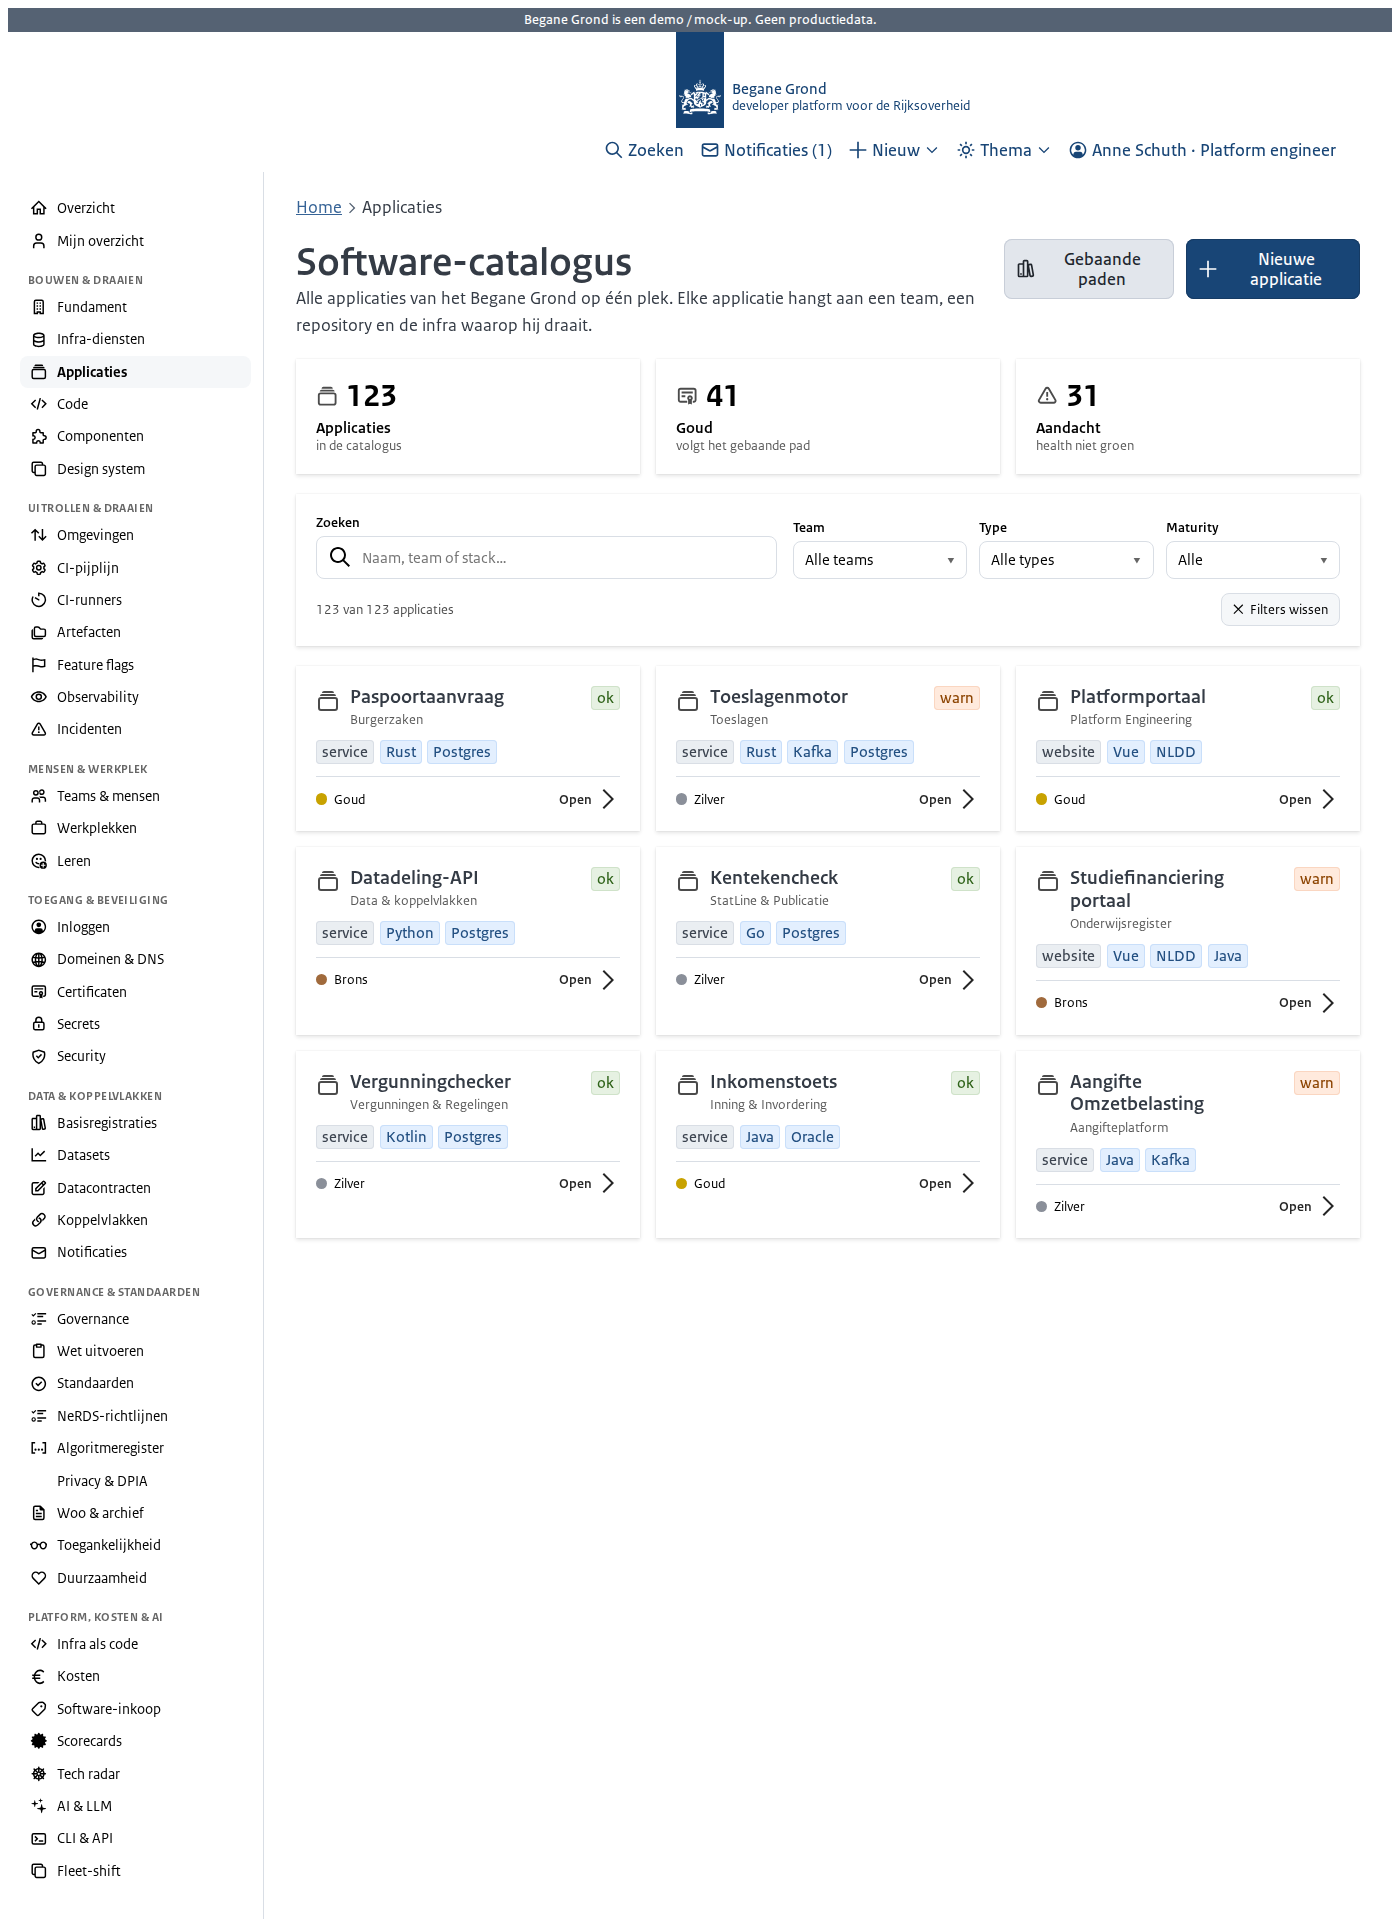
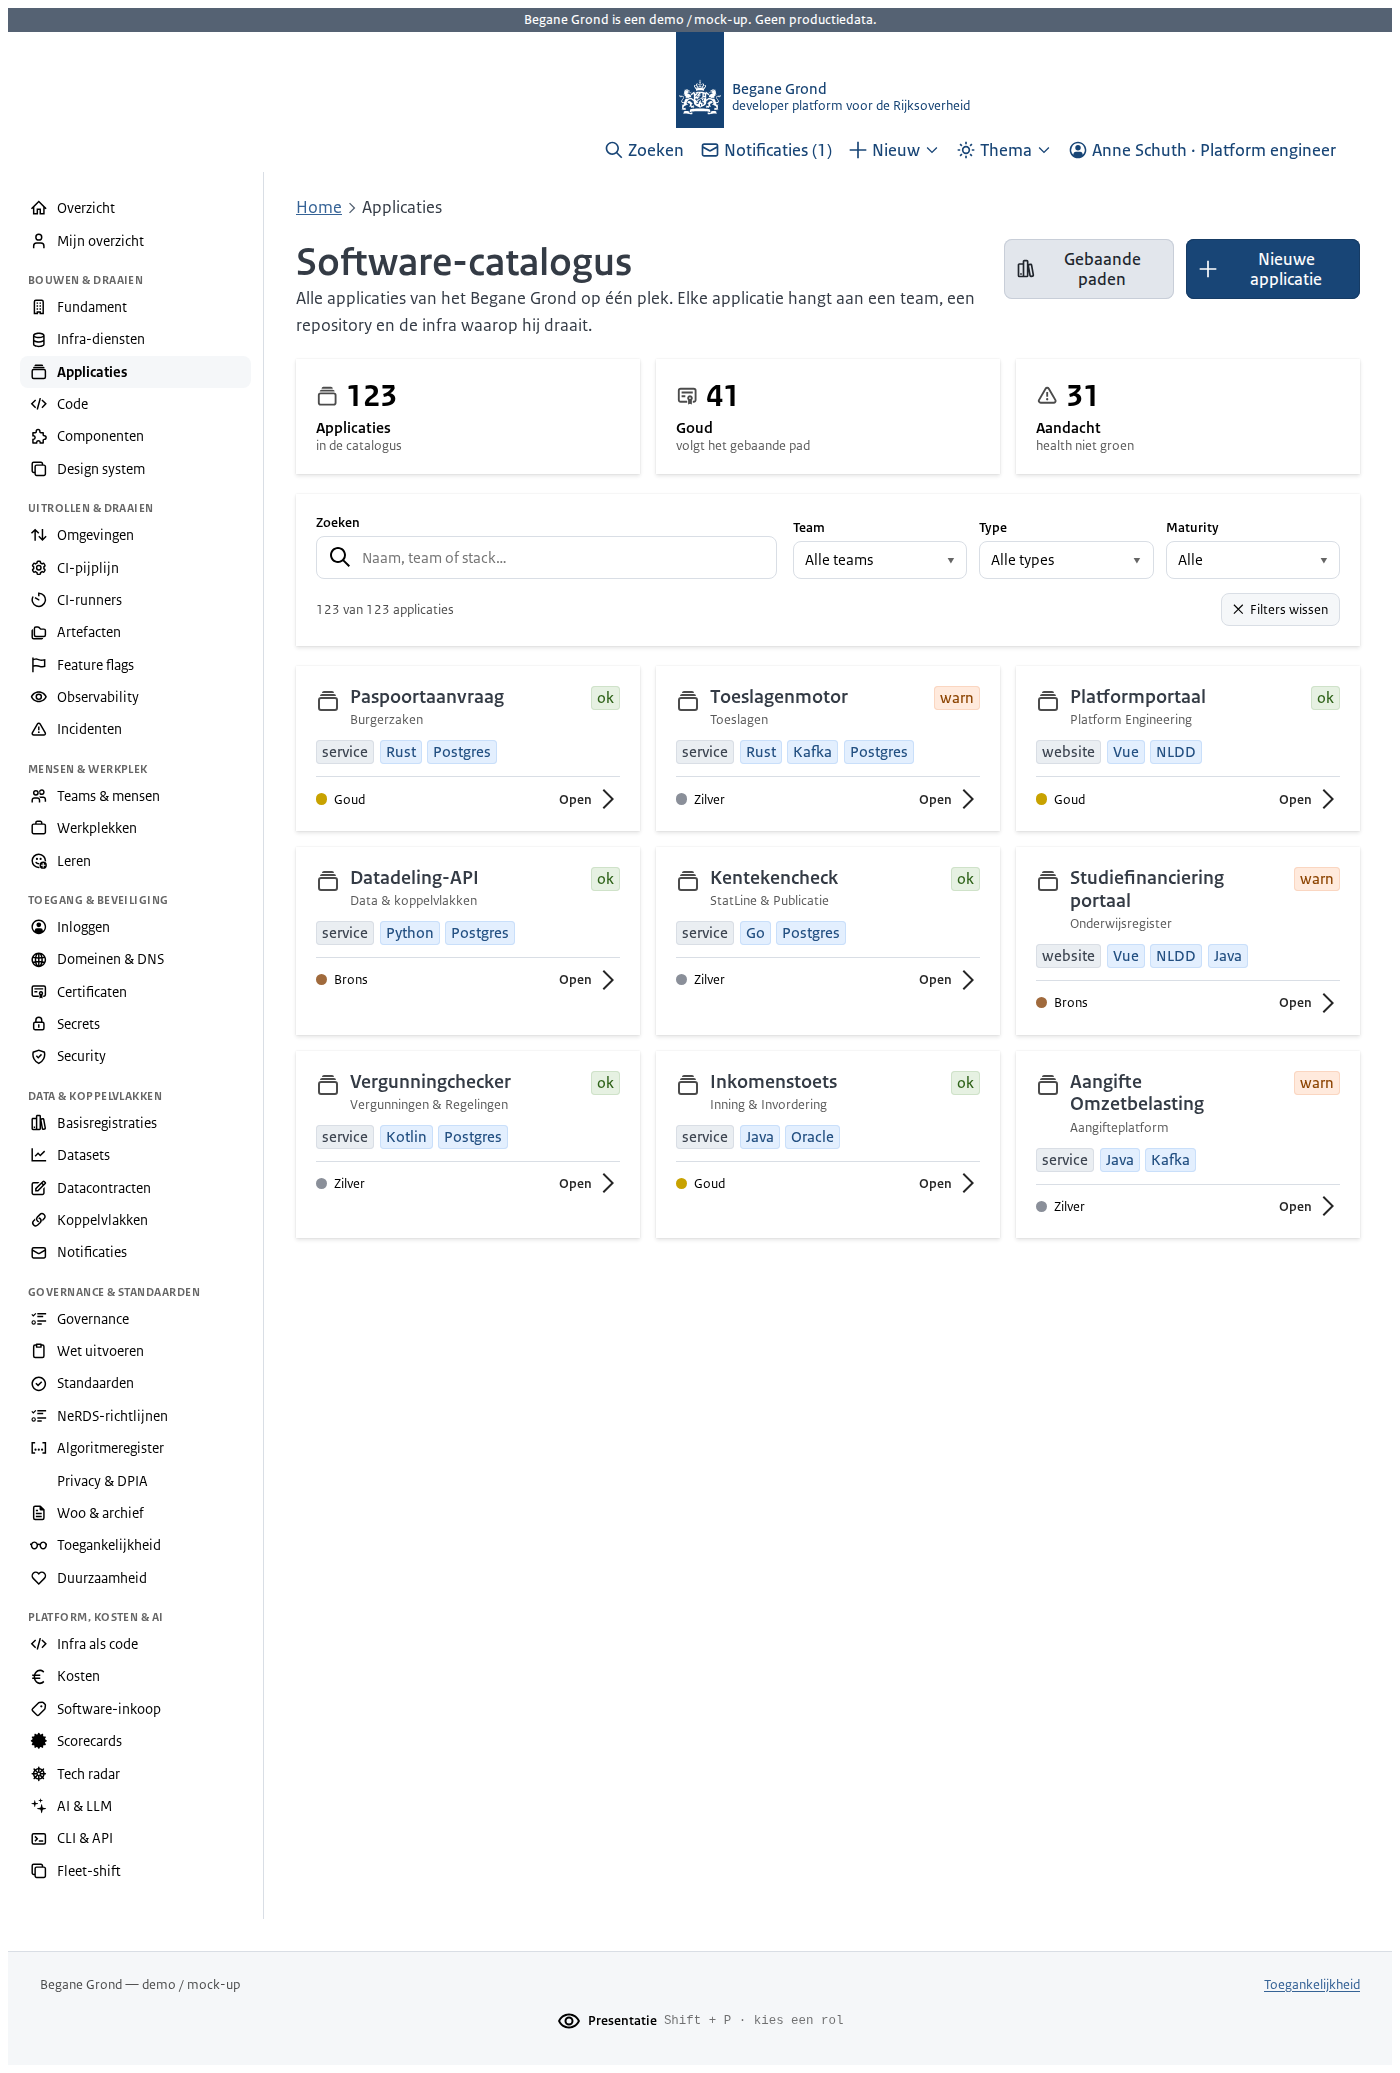
Add the page footer (site-footer) to the /apps recreation
New global site-footer component with NLDD/BGNLDD + RVO impls: a slim page
footer with a legal bar (start text + end links via content) and an optional
centered note/action row (label + monospace hint + icon) — matching
bg.rijks.app's nldd-page-footer (legal bar + "Presentatie · Shift + P" note).

It renders through the app-shell's existing footer slot, so it spans full width
below the sidebar and main (grid area "footer footer"). Structural CSS
(lotc-site-footer / lotc-footer-*) is theme-agnostic (token fallbacks) and lives
in the core app-components bundle; end links use the existing c-link, which
resolves in both design systems. The /apps fixture (+ its RVO variant) now ends
with the footer.

Tests cover the footer (legal bar, links, note, note-less) and its placement in
the app-shell footer slot; the /apps fixture test now asserts the footer.
2488 py + 144 core tests pass; matrix/goldens unchanged (template-backed).

diff --git a/python/src/lord_of_the_components/static/lotc/app-components.css b/python/src/lord_of_the_components/static/lotc/app-components.css
@@ -245,3 +245,13 @@
 .lotc-filter-foot { justify-content: space-between; align-items: center; margin-top: 0.85rem; font-size: 0.85rem; display: flex; }
 .lotc-filter-count { opacity: 0.7; }
 .lotc-filter-clear { color: inherit; background: var(--semantics-surfaces-tinted-background-color, #eef0f4); border: 1px solid var(--semantics-dividers-color, #e2e2e6); border-radius: 8px; align-items: center; gap: 0.35rem; padding: 0.45rem 0.7rem; font: inherit; display: inline-flex; }
+
+/* ── site-footer (slim page footer: legal bar + optional note) ───────────── */
+.lotc-site-footer { border-top: 1px solid var(--semantics-dividers-color, #e2e2e6); background: var(--semantics-surfaces-tinted-background-color, #e6e9ef); margin-top: 2rem; padding: 1.5rem 2rem 1.75rem; }
+.lotc-footer-legal { flex-wrap: wrap; justify-content: space-between; align-items: center; gap: 1rem; display: flex; }
+.lotc-footer-text { opacity: 0.7; font-size: 0.9rem; }
+.lotc-footer-links { flex-wrap: wrap; align-items: center; gap: 1.25rem; font-size: 0.9rem; display: flex; }
+.lotc-footer-note { text-align: center; margin-top: 1rem; }
+.lotc-footer-present { align-items: center; gap: 0.45rem; font-size: 0.9rem; display: inline-flex; }
+.lotc-footer-present strong { font-weight: 600; }
+.lotc-footer-hint { opacity: 0.55; font-family: ui-monospace, monospace; font-size: 0.78rem; }

diff --git a/definitions/components/app-components.def.ts b/definitions/components/app-components.def.ts
@@ -278,3 +278,18 @@ export const filterSelect = defineComponent({
     [PROPS.CLASS]: { description: "Additional CSS classes" },
   },
 });
+
+// ── site-footer: a slim page footer (legal bar + an optional centered note) ──
+export const siteFooter = defineComponent({
+  name: "site-footer",
+  description: "Slim page footer: a legal bar (start text + end links content) with an optional centered note/action row",
+  category: "layout",
+  props: {
+    text: { description: "Legal text on the left (e.g. copyright / disclaimer)" },
+    "note-label": { description: "Centered note action label (e.g. \"Presentatie\")" },
+    note: { description: "Centered note hint (monospace, e.g. a keyboard shortcut)" },
+    "note-icon": { description: "Icon for the note action" },
+    [PROPS.CLASS]: { description: "Additional CSS classes" },
+  },
+  content: { allowed: true }, // end links (right side of the legal bar)
+});

diff --git a/tests/visual/fixtures/apps-rvo.html b/tests/visual/fixtures/apps-rvo.html
@@ -111,5 +111,11 @@
       <c-catalog-card icon="rectangle-stack" title="Aangifte Omzetbelasting" subtitle="Aangifteplatform" status="warn" status-type="warning" maturity="zilver" open-label="Open" href="/apps/aangifte-omzetbelasting"><c-tag type="default">service</c-tag><c-tag type="info">Java</c-tag><c-tag type="info">Kafka</c-tag></c-catalog-card>
     </c-auto-grid>
   </c-stack>
+
+  <template slot="footer">
+    <c-site-footer text="Begane Grond — demo / mock-up" note-label="Presentatie" note="Shift + P · kies een rol" note-icon="eye">
+      <c-link href="/standaarden">Toegankelijkheid</c-link>
+    </c-site-footer>
+  </template>
 </c-app-shell>
 </c-page>

diff --git a/tests/visual/fixtures/apps.html b/tests/visual/fixtures/apps.html
@@ -111,5 +111,11 @@
       <c-catalog-card icon="rectangle-stack" title="Aangifte Omzetbelasting" subtitle="Aangifteplatform" status="warn" status-type="warning" maturity="zilver" open-label="Open" href="/apps/aangifte-omzetbelasting"><c-tag type="default">service</c-tag><c-tag type="info">Java</c-tag><c-tag type="info">Kafka</c-tag></c-catalog-card>
     </c-auto-grid>
   </c-stack>
+
+  <template slot="footer">
+    <c-site-footer text="Begane Grond — demo / mock-up" note-label="Presentatie" note="Shift + P · kies een rol" note-icon="eye">
+      <c-link href="/standaarden">Toegankelijkheid</c-link>
+    </c-site-footer>
+  </template>
 </c-app-shell>
 </c-page>

diff --git a/definitions/components/index.ts b/definitions/components/index.ts
@@ -59,6 +59,7 @@ export {
   catalogCard,
   filterBar,
   filterSelect,
+  siteFooter,
 } from "./app-components.def.js";
 
 // Feedback components
@@ -163,6 +164,7 @@ import {
   catalogCard,
   filterBar,
   filterSelect,
+  siteFooter,
 } from "./app-components.def.js";
 import type { ComponentDefinition } from "../component.js";
 
@@ -239,6 +241,7 @@ export const COMPONENTS: Record<string, ComponentDefinition> = {
   "catalog-card": catalogCard,
   "filter-bar": filterBar,
   "filter-select": filterSelect,
+  "site-footer": siteFooter,
 };
 
 /**

diff --git a/python/tests/test_bgnldd.py b/python/tests/test_bgnldd.py
@@ -222,6 +222,32 @@ def test_catalog_card_maturity_variants(render):
     assert "lotc-medal" not in html
 
 
+def test_site_footer_renders(render):
+    # Slim page footer: legal text (left) + end links (content, right) and an
+    # optional centered note/action row.
+    html = render(
+        '<c-site-footer text="Begane Grond — demo / mock-up" note-label="Presentatie"'
+        ' note="Shift + P" note-icon="eye"><c-link href="/standaarden">Toegankelijkheid'
+        "</c-link></c-site-footer>"
+    )
+    assert 'class="lotc-site-footer"' in html and 'role="contentinfo"' in html
+    assert "lotc-footer-legal" in html and "Begane Grond" in html
+    assert "lotc-footer-links" in html and "Toegankelijkheid" in html
+    assert "lotc-footer-note" in html and "Presentatie" in html and "Shift + P" in html
+    # note-less footer emits no note row
+    bare = render('<c-site-footer text="X"/>')
+    assert "lotc-footer-note" not in bare
+
+
+def test_site_footer_lands_in_app_shell_footer_slot(render):
+    # Placed via <template slot="footer">, the footer renders full-width in the
+    # app-shell's footer region.
+    html = render(
+        '<c-app-shell><template slot="footer"><c-site-footer text="X"/></template>body</c-app-shell>'
+    )
+    assert "lotc-app-shell__footer" in html and "lotc-site-footer" in html
+
+
 def test_apps_page_fixture_renders_fully():
     # The full /apps ("Software-catalogus") recreation renders end-to-end under
     # nldd+bgnldd with every component resolving (no missing-impl error).
@@ -235,6 +261,7 @@ def test_apps_page_fixture_renders_fully():
     assert html.count('class="lotc-catalog"') == 9  # nine app cards
     assert "lotc-filterbar" in html and html.count("lotc-filter-field") >= 3
     assert html.count("lotc-metric-link") == 3
+    assert "lotc-site-footer" in html  # page footer in the app-shell footer slot
     assert "not implemented" not in html  # no placeholder gaps
 
 

diff --git a/tests/visual/gen_apps.py b/tests/visual/gen_apps.py
@@ -123,6 +123,12 @@ def build() -> str:
 {cards()}
     </c-auto-grid>
   </c-stack>
+
+  <template slot="footer">
+    <c-site-footer text="Begane Grond — demo / mock-up" note-label="Presentatie" note="Shift + P · kies een rol" note-icon="eye">
+      <c-link href="/standaarden">Toegankelijkheid</c-link>
+    </c-site-footer>
+  </template>
 </c-app-shell>
 </c-page>
 """
